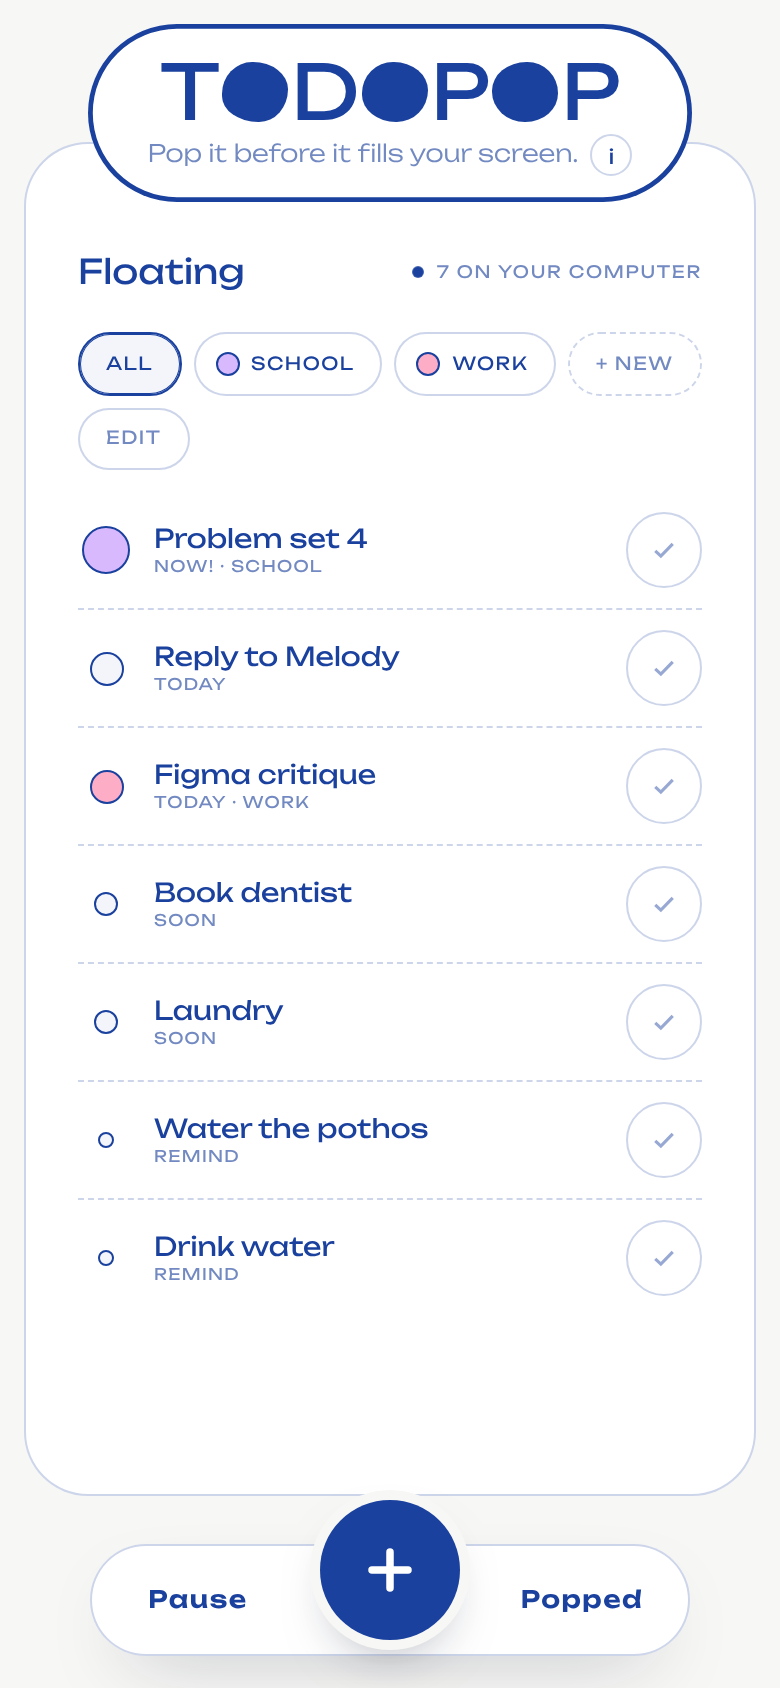
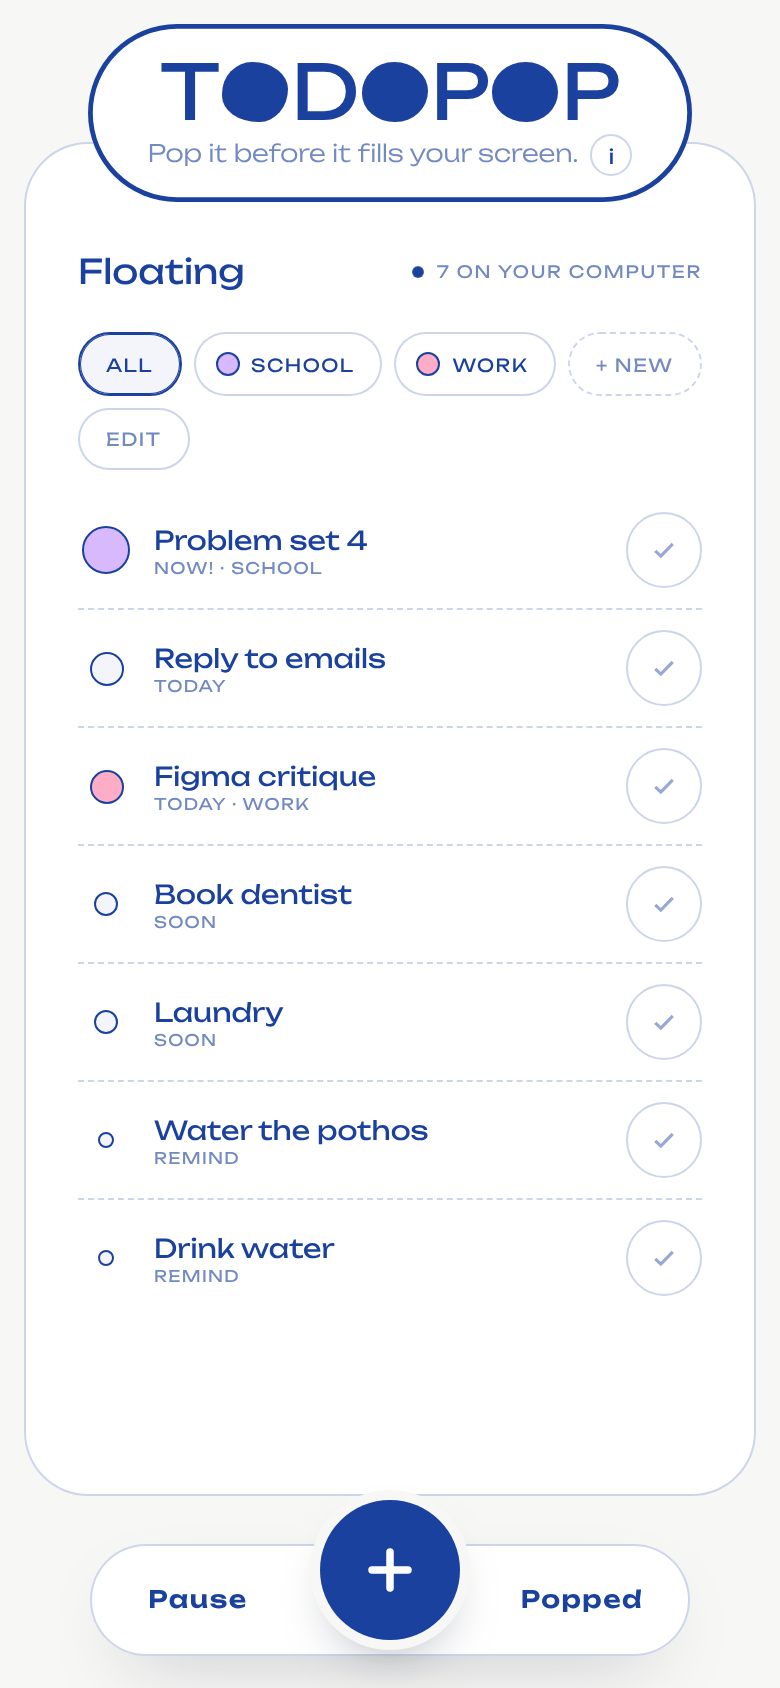
Room for doubled Chinese; no repeated name in focus; generic demo task
- Chinese lines get the height they need (lists, Popped, focus bar, toasts,
  chips, fields, and bubble labels), so the doubled characters aren't cut off.
- Focus mode no longer shows a second name card; the focus bar names the task.
- "Reply to Melody" is now "Reply to emails" everywhere, and the name field's
  example no longer names anyone.

Claude-Session: https://claude.ai/code/session_016KsdP1AQ7xCVeccahams69

diff --git a/desktop/app/index.html b/desktop/app/index.html
@@ -171,7 +171,7 @@ html.paused .task:not(.lv1) .dot i{border-style:dashed}
 .task.bursting{overflow:hidden; pointer-events:none}
 .task.inside .name span{text-decoration:underline; text-decoration-thickness:1.4px; text-underline-offset:4px}
 .task .name{all:unset; cursor:pointer; min-width:0; display:grid; gap:2px}
-.task .name span{font-weight:600; font-size:14px; overflow:hidden; text-overflow:ellipsis; white-space:nowrap}
+.task .name span{font-weight:600; font-size:14px; overflow:hidden; text-overflow:ellipsis; white-space:nowrap; line-height:normal}
 .task .name small{font-family:var(--f-mono); font-size:10.5px; color:var(--ink-soft); letter-spacing:.03em; font-variant-numeric:tabular-nums}
 .task .name:focus-visible{outline:2px solid var(--ink); outline-offset:2px; border-radius:6px}
 .pop-btn{
@@ -228,7 +228,7 @@ html.paused .task:not(.lv1) .dot i{border-style:dashed}
 .day-list .ttl{font-family:var(--f-mono); font-size:10.5px; color:var(--ink-soft); letter-spacing:.05em; text-transform:uppercase; padding:0 0 4px}
 .redo{all:unset; box-sizing:border-box; cursor:pointer; width:100%; display:flex; gap:8px; align-items:center; padding:6px 8px; margin:0 -8px; width:calc(100% + 16px); border-radius:10px}
 .redo::before{content:""; width:6px; height:6px; border-radius:50%; border:1.2px solid var(--ink); flex:none}
-.redo .nm{flex:1; min-width:0; overflow:hidden; text-overflow:ellipsis; white-space:nowrap}
+.redo .nm{flex:1; min-width:0; overflow:hidden; text-overflow:ellipsis; white-space:nowrap; line-height:normal}
 .redo .lv{font-family:var(--f-mono); font-size:10px; letter-spacing:.05em; color:var(--ink-soft)}
 .redo .again{font-family:var(--f-mono); font-size:10px; letter-spacing:.05em; color:var(--ink); opacity:0; transition:opacity .15s}
 .redo:hover, .redo:focus-visible{background:var(--ink-wash)}
@@ -288,7 +288,7 @@ html.paused .task:not(.lv1) .dot i{border-style:dashed}
   box-shadow:0 18px 50px -22px rgba(16,24,48,.4); animation:pop-in .4s cubic-bezier(.3,1.6,.5,1);
 }
 .focus-bar .focus-ring{color:var(--ink)}
-.focus-name{font-size:19px; font-style:italic; min-width:0; overflow:hidden; text-overflow:ellipsis; white-space:nowrap; max-width:36ch}
+.focus-name{font-size:19px; font-style:italic; min-width:0; overflow:hidden; text-overflow:ellipsis; white-space:nowrap; max-width:36ch; line-height:normal}
 .focus-time{font-size:19px; font-variant-numeric:tabular-nums; color:var(--ink-soft); letter-spacing:.02em}
 .focus-bar .close{position:static; flex:none; width:34px; height:34px; min-width:34px; aspect-ratio:1; padding:0; box-sizing:border-box; display:grid; place-items:center; border-radius:50%}
 .focus-bar > *{flex:none}
@@ -322,7 +322,7 @@ html.remote .focus-name{max-width:none; white-space:normal; overflow:hidden; dis
   max-width:calc(100% - 32px);
 }
 .toast.show{opacity:1; transform:translate(-50%, 0); pointer-events:auto}
-.toast span{overflow:hidden; text-overflow:ellipsis; white-space:nowrap}
+.toast span{overflow:hidden; text-overflow:ellipsis; white-space:nowrap; line-height:normal}
 .toast button{all:unset; cursor:pointer; border:1px solid color-mix(in srgb, var(--paper) 50%, transparent); border-radius:999px; padding:5px 12px; font-family:var(--f-mono); font-size:11px; letter-spacing:.06em; text-transform:uppercase}
 .toast button:focus-visible{outline:2px solid var(--paper)}
 
@@ -858,7 +858,10 @@ html.remote .panel > .pz > .sync{margin:0 16px 10px; padding:14px 16px; border:1
 .gedit .gx svg{width:9px; height:9px; stroke:currentColor; stroke-width:1.6; fill:none}
 .gedit .chips{padding-top:4px}
 .task .dot i{background:var(--glow, var(--ink-wash))}
-.task .name small{overflow:hidden; text-overflow:ellipsis; white-space:nowrap}
+.task .name small{overflow:hidden; text-overflow:ellipsis; white-space:nowrap; line-height:normal}
+/* Chinese is drawn at twice the size (see fonts.css): anything showing a name makes room for it */
+.chips button, .gedit input, .steps-edit li, .step-in{line-height:normal}
+input.has-cjk{line-height:2; padding-top:2px !important; padding-bottom:2px !important}
 .redo[style]::before{background:var(--glow)}
 .wday .pip[style]{background:var(--glow)}
 .wday .pip[style]{width:11px; height:11px; border-width:1px}
@@ -896,7 +899,7 @@ html.remote .panel > .pz > .sync{margin:0 16px 10px; padding:14px 16px; border:1
     <button class="acc-head" aria-expanded="false" aria-controls="body-new"><span>Blow a bubble</span><span class="chev"></span></button>
     <div class="acc-wrap"><div class="acc-body" id="body-new"><form class="acc-inner" id="new-form" autocomplete="off">
       <label class="field-label" for="task-name">Task name</label>
-      <input class="text-in" id="task-name" maxlength="48" placeholder="e.g. Send Melody the Figma link" style="margin-top:-10px">
+      <input class="text-in" id="task-name" maxlength="48" placeholder="e.g. Send the team the Figma link" style="margin-top:-10px">
       <label class="field-label url-label" for="task-url">Task URL <span class="opt">if there is one</span></label>
       <input class="text-in url-in" id="task-url" type="text" inputmode="url" autocomplete="off" spellcheck="false" maxlength="2000" placeholder="Paste a link, e.g. the Canvas page" style="margin-top:-10px">
       <label class="field-label url-label" for="task-due">Deadline <span class="opt">if there is one</span></label>
@@ -1186,7 +1189,7 @@ function seedTasks(){
   const ago = m => Date.now() - m*60000;
   [
     {name:'Problem set 4', level:4, R:118, fx:.8, fy:.6, created:ago(52)},
-    {name:'Reply to Melody', level:3, R:78, fx:.19, fy:.3, created:ago(34)},
+    {name:'Reply to emails', level:3, R:78, fx:.19, fy:.3, created:ago(34)},
     {name:'Figma critique', level:3, R:64, fx:.83, fy:.2, created:ago(20)},
     {name:'Book dentist', level:2, R:50, fx:.21, fy:.73, created:ago(140)},
     {name:'Laundry', level:2, R:44, fx:.3, fy:.9, created:ago(95)},
@@ -1332,6 +1335,9 @@ function renderTasks(){
       <button class="pop-btn" type="button" data-act="pop" aria-label="Pop ${esc(b.name)}"><svg viewBox="0 0 16 16"><path d="M3 8.5l3.2 3L13 4.5"/></svg></button>
     </li>`; }).join('') + (REMOTE && gFilter && !list.some(b => b.group === gFilter) ? `<li class="empty">Nothing in ${esc(gById(gFilter)?.name || 'this group')} yet.</li>` : '') : `<li class="empty">No bubbles left. The screen is all yours.</li>`;
 }
+// typing Chinese into a field: the line grows to fit the doubled characters
+const cjkFit = e => { const t = e.target; if(t && t.tagName === 'INPUT') t.classList.toggle('has-cjk', /[\u2e80-\u9fff\u3000-\u303f\uff00-\uffef]/.test(t.value)); };
+addEventListener('input', cjkFit, true); addEventListener('focusin', cjkFit, true); // (focusin: fields filled in for you, like Edit)
 const esc = s => s.replace(/[&<>"']/g, c => ({'&':'&amp;','<':'&lt;','>':'&gt;','"':'&quot;',"'":'&#39;'}[c]));
 
 /* ---------- groups: each one a soft glow of color (at most six groups) ----------
@@ -2421,9 +2427,12 @@ function draw(){
       const ft = showMeta ? focusSoFar(b) : 0, timeLine = ft >= 1 ? fmtClock(ft) : '';
       const grp = showMeta && b.group ? gById(b.group) : null; // its group, named: a coloured dot and the group's name
       const dueLine = showMeta && b.due ? fmtDue(b.due) : '';
-      const lh = fs*1.15, total = lines.length*lh + (showMeta ? ms*1.9 : 0) + (dueLine ? ms*1.5 : 0) + (grp ? ms*1.6 : 0) + (timeLine ? ms*1.5 : 0);
-      let y = ly - total/2 + lh/2;
-      for(const l of lines){ ctx.fillText(l, lx, y); y += lh; }
+      // Chinese is drawn at twice the size and rides high on the line: give those lines more room and nudge them down to centre
+      const lh = fs*1.15, lhOf = l => CJK.test(l) ? fs*1.9 : lh, grpTall = grp && CJK.test(grp.name) ? ms*.9 : 0;
+      const total = lines.reduce((a, l) => a + lhOf(l), 0) + (showMeta ? ms*1.9 : 0) + (dueLine ? ms*1.5 : 0) + (grp ? ms*1.6 + grpTall : 0) + (timeLine ? ms*1.5 : 0);
+      let y = ly - total/2;
+      for(const l of lines){ const h = lhOf(l); ctx.fillText(l, lx, y + h/2 + (CJK.test(l) ? fs*.34 : 0)); y += h; }
+      y += lh/2; // the meta below is placed as before: half a line under the last name line
       if(showMeta){
         ctx.font = `400 ${ms}px "Unbounded", "WDXL Lubrifont SC", "Varela Round", system-ui, sans-serif`; ctx.fillStyle = rgba(.62);
         if('letterSpacing' in ctx) ctx.letterSpacing = (ms*.1)+'px';
@@ -2442,8 +2451,9 @@ function draw(){
           const x0 = lx - (dr*2 + gap + tw)/2;
           ctx.beginPath(); ctx.arc(x0 + dr, ty, dr, 0, 6.283); ctx.fillStyle = gHex(grp); ctx.fill();
           ctx.lineWidth = .8; ctx.strokeStyle = rgba(.35); ctx.stroke();
-          ctx.fillStyle = rgba(.82); ctx.textAlign = 'left'; ctx.fillText(label, x0 + dr*2 + gap, ty); ctx.textAlign = 'center';
-          ty += ms*1.6;
+          if(grpTall) ty += grpTall/2;
+          ctx.fillStyle = rgba(.82); ctx.textAlign = 'left'; ctx.fillText(label, x0 + dr*2 + gap, ty + (grpTall ? ms*.3 : 0)); ctx.textAlign = 'center';
+          ty += ms*1.6 + grpTall/2;
         }
         if(timeLine){ // the clock inside, e.g. 3:56
           ctx.font = `400 ${ms*1.05}px "Unbounded", "WDXL Lubrifont SC", "Varela Round", system-ui, sans-serif`; ctx.fillStyle = rgba(.85);
@@ -2896,7 +2906,7 @@ function startFocus(b){
   syncStepSide();
   $('#step-add').hidden = REMOTE;
   if(!REMOTE){ panel.hidden = true; $('#launcher').hidden = true; } setInfo(false);
-  $('#focus-note-name').textContent = b.name; $('#focus-note').hidden = !!b.url || REMOTE;
+  $('#focus-note-name').textContent = b.name; $('#focus-note').hidden = true; // the focus bar already names the task
   $('#focus-name').textContent = b.name; $('#focus').hidden = false; $('#focus-frame').hidden = false; tickFocus();
   clearInterval(focusTimer); focusTimer = setInterval(tickFocus, 1000);
   document.documentElement.classList.remove('over-bubble');

diff --git a/docs/app/index.html b/docs/app/index.html
@@ -178,7 +178,7 @@ html.paused .task:not(.lv1) .dot i{border-style:dashed}
 .task.bursting{overflow:hidden; pointer-events:none}
 .task.inside .name span{text-decoration:underline; text-decoration-thickness:1.4px; text-underline-offset:4px}
 .task .name{all:unset; cursor:pointer; min-width:0; display:grid; gap:2px}
-.task .name span{font-weight:600; font-size:14px; overflow:hidden; text-overflow:ellipsis; white-space:nowrap}
+.task .name span{font-weight:600; font-size:14px; overflow:hidden; text-overflow:ellipsis; white-space:nowrap; line-height:normal}
 .task .name small{font-family:var(--f-mono); font-size:10.5px; color:var(--ink-soft); letter-spacing:.03em; font-variant-numeric:tabular-nums}
 .task .name:focus-visible{outline:2px solid var(--ink); outline-offset:2px; border-radius:6px}
 .pop-btn{
@@ -235,7 +235,7 @@ html.paused .task:not(.lv1) .dot i{border-style:dashed}
 .day-list .ttl{font-family:var(--f-mono); font-size:10.5px; color:var(--ink-soft); letter-spacing:.05em; text-transform:uppercase; padding:0 0 4px}
 .redo{all:unset; box-sizing:border-box; cursor:pointer; width:100%; display:flex; gap:8px; align-items:center; padding:6px 8px; margin:0 -8px; width:calc(100% + 16px); border-radius:10px}
 .redo::before{content:""; width:6px; height:6px; border-radius:50%; border:1.2px solid var(--ink); flex:none}
-.redo .nm{flex:1; min-width:0; overflow:hidden; text-overflow:ellipsis; white-space:nowrap}
+.redo .nm{flex:1; min-width:0; overflow:hidden; text-overflow:ellipsis; white-space:nowrap; line-height:normal}
 .redo .lv{font-family:var(--f-mono); font-size:10px; letter-spacing:.05em; color:var(--ink-soft)}
 .redo .again{font-family:var(--f-mono); font-size:10px; letter-spacing:.05em; color:var(--ink); opacity:0; transition:opacity .15s}
 .redo:hover, .redo:focus-visible{background:var(--ink-wash)}
@@ -295,7 +295,7 @@ html.paused .task:not(.lv1) .dot i{border-style:dashed}
   box-shadow:0 18px 50px -22px rgba(16,24,48,.4); animation:pop-in .4s cubic-bezier(.3,1.6,.5,1);
 }
 .focus-bar .focus-ring{color:var(--ink)}
-.focus-name{font-size:19px; font-style:italic; min-width:0; overflow:hidden; text-overflow:ellipsis; white-space:nowrap; max-width:36ch}
+.focus-name{font-size:19px; font-style:italic; min-width:0; overflow:hidden; text-overflow:ellipsis; white-space:nowrap; max-width:36ch; line-height:normal}
 .focus-time{font-size:19px; font-variant-numeric:tabular-nums; color:var(--ink-soft); letter-spacing:.02em}
 .focus-bar .close{position:static; flex:none; width:34px; height:34px; min-width:34px; aspect-ratio:1; padding:0; box-sizing:border-box; display:grid; place-items:center; border-radius:50%}
 .focus-bar > *{flex:none}
@@ -329,7 +329,7 @@ html.remote .focus-name{max-width:none; white-space:normal; overflow:hidden; dis
   max-width:calc(100% - 32px);
 }
 .toast.show{opacity:1; transform:translate(-50%, 0); pointer-events:auto}
-.toast span{overflow:hidden; text-overflow:ellipsis; white-space:nowrap}
+.toast span{overflow:hidden; text-overflow:ellipsis; white-space:nowrap; line-height:normal}
 .toast button{all:unset; cursor:pointer; border:1px solid color-mix(in srgb, var(--paper) 50%, transparent); border-radius:999px; padding:5px 12px; font-family:var(--f-mono); font-size:11px; letter-spacing:.06em; text-transform:uppercase}
 .toast button:focus-visible{outline:2px solid var(--paper)}
 
@@ -865,7 +865,10 @@ html.remote .panel > .pz > .sync{margin:0 16px 10px; padding:14px 16px; border:1
 .gedit .gx svg{width:9px; height:9px; stroke:currentColor; stroke-width:1.6; fill:none}
 .gedit .chips{padding-top:4px}
 .task .dot i{background:var(--glow, var(--ink-wash))}
-.task .name small{overflow:hidden; text-overflow:ellipsis; white-space:nowrap}
+.task .name small{overflow:hidden; text-overflow:ellipsis; white-space:nowrap; line-height:normal}
+/* Chinese is drawn at twice the size (see fonts.css): anything showing a name makes room for it */
+.chips button, .gedit input, .steps-edit li, .step-in{line-height:normal}
+input.has-cjk{line-height:2; padding-top:2px !important; padding-bottom:2px !important}
 .redo[style]::before{background:var(--glow)}
 .wday .pip[style]{background:var(--glow)}
 .wday .pip[style]{width:11px; height:11px; border-width:1px}
@@ -902,7 +905,7 @@ html.remote .panel > .pz > .sync{margin:0 16px 10px; padding:14px 16px; border:1
     <button class="acc-head" aria-expanded="false" aria-controls="body-new"><span>Blow a bubble</span><span class="chev"></span></button>
     <div class="acc-wrap"><div class="acc-body" id="body-new"><form class="acc-inner" id="new-form" autocomplete="off">
       <label class="field-label" for="task-name">Task name</label>
-      <input class="text-in" id="task-name" maxlength="48" placeholder="e.g. Send Melody the Figma link" style="margin-top:-10px">
+      <input class="text-in" id="task-name" maxlength="48" placeholder="e.g. Send the team the Figma link" style="margin-top:-10px">
       <label class="field-label url-label" for="task-url">Task URL <span class="opt">if there is one</span></label>
       <input class="text-in url-in" id="task-url" type="text" inputmode="url" autocomplete="off" spellcheck="false" maxlength="2000" placeholder="Paste a link, e.g. the Canvas page" style="margin-top:-10px">
       <label class="field-label url-label" for="task-due">Deadline <span class="opt">if there is one</span></label>
@@ -1192,7 +1195,7 @@ function seedTasks(){
   const ago = m => Date.now() - m*60000;
   [
     {name:'Problem set 4', level:4, R:118, fx:.8, fy:.6, created:ago(52)},
-    {name:'Reply to Melody', level:3, R:78, fx:.19, fy:.3, created:ago(34)},
+    {name:'Reply to emails', level:3, R:78, fx:.19, fy:.3, created:ago(34)},
     {name:'Figma critique', level:3, R:64, fx:.83, fy:.2, created:ago(20)},
     {name:'Book dentist', level:2, R:50, fx:.21, fy:.73, created:ago(140)},
     {name:'Laundry', level:2, R:44, fx:.3, fy:.9, created:ago(95)},
@@ -1338,6 +1341,9 @@ function renderTasks(){
       <button class="pop-btn" type="button" data-act="pop" aria-label="Pop ${esc(b.name)}"><svg viewBox="0 0 16 16"><path d="M3 8.5l3.2 3L13 4.5"/></svg></button>
     </li>`; }).join('') + (REMOTE && gFilter && !list.some(b => b.group === gFilter) ? `<li class="empty">Nothing in ${esc(gById(gFilter)?.name || 'this group')} yet.</li>` : '') : `<li class="empty">No bubbles left. The screen is all yours.</li>`;
 }
+// typing Chinese into a field: the line grows to fit the doubled characters
+const cjkFit = e => { const t = e.target; if(t && t.tagName === 'INPUT') t.classList.toggle('has-cjk', /[\u2e80-\u9fff\u3000-\u303f\uff00-\uffef]/.test(t.value)); };
+addEventListener('input', cjkFit, true); addEventListener('focusin', cjkFit, true); // (focusin: fields filled in for you, like Edit)
 const esc = s => s.replace(/[&<>"']/g, c => ({'&':'&amp;','<':'&lt;','>':'&gt;','"':'&quot;',"'":'&#39;'}[c]));
 
 /* ---------- groups: each one a soft glow of color (at most six groups) ----------
@@ -2427,9 +2433,12 @@ function draw(){
       const ft = showMeta ? focusSoFar(b) : 0, timeLine = ft >= 1 ? fmtClock(ft) : '';
       const grp = showMeta && b.group ? gById(b.group) : null; // its group, named: a coloured dot and the group's name
       const dueLine = showMeta && b.due ? fmtDue(b.due) : '';
-      const lh = fs*1.15, total = lines.length*lh + (showMeta ? ms*1.9 : 0) + (dueLine ? ms*1.5 : 0) + (grp ? ms*1.6 : 0) + (timeLine ? ms*1.5 : 0);
-      let y = ly - total/2 + lh/2;
-      for(const l of lines){ ctx.fillText(l, lx, y); y += lh; }
+      // Chinese is drawn at twice the size and rides high on the line: give those lines more room and nudge them down to centre
+      const lh = fs*1.15, lhOf = l => CJK.test(l) ? fs*1.9 : lh, grpTall = grp && CJK.test(grp.name) ? ms*.9 : 0;
+      const total = lines.reduce((a, l) => a + lhOf(l), 0) + (showMeta ? ms*1.9 : 0) + (dueLine ? ms*1.5 : 0) + (grp ? ms*1.6 + grpTall : 0) + (timeLine ? ms*1.5 : 0);
+      let y = ly - total/2;
+      for(const l of lines){ const h = lhOf(l); ctx.fillText(l, lx, y + h/2 + (CJK.test(l) ? fs*.34 : 0)); y += h; }
+      y += lh/2; // the meta below is placed as before: half a line under the last name line
       if(showMeta){
         ctx.font = `400 ${ms}px "Unbounded", "WDXL Lubrifont SC", "Varela Round", system-ui, sans-serif`; ctx.fillStyle = rgba(.62);
         if('letterSpacing' in ctx) ctx.letterSpacing = (ms*.1)+'px';
@@ -2448,8 +2457,9 @@ function draw(){
           const x0 = lx - (dr*2 + gap + tw)/2;
           ctx.beginPath(); ctx.arc(x0 + dr, ty, dr, 0, 6.283); ctx.fillStyle = gHex(grp); ctx.fill();
           ctx.lineWidth = .8; ctx.strokeStyle = rgba(.35); ctx.stroke();
-          ctx.fillStyle = rgba(.82); ctx.textAlign = 'left'; ctx.fillText(label, x0 + dr*2 + gap, ty); ctx.textAlign = 'center';
-          ty += ms*1.6;
+          if(grpTall) ty += grpTall/2;
+          ctx.fillStyle = rgba(.82); ctx.textAlign = 'left'; ctx.fillText(label, x0 + dr*2 + gap, ty + (grpTall ? ms*.3 : 0)); ctx.textAlign = 'center';
+          ty += ms*1.6 + grpTall/2;
         }
         if(timeLine){ // the clock inside, e.g. 3:56
           ctx.font = `400 ${ms*1.05}px "Unbounded", "WDXL Lubrifont SC", "Varela Round", system-ui, sans-serif`; ctx.fillStyle = rgba(.85);
@@ -2902,7 +2912,7 @@ function startFocus(b){
   syncStepSide();
   $('#step-add').hidden = REMOTE;
   if(!REMOTE){ panel.hidden = true; $('#launcher').hidden = true; } setInfo(false);
-  $('#focus-note-name').textContent = b.name; $('#focus-note').hidden = !!b.url || REMOTE;
+  $('#focus-note-name').textContent = b.name; $('#focus-note').hidden = true; // the focus bar already names the task
   $('#focus-name').textContent = b.name; $('#focus').hidden = false; $('#focus-frame').hidden = false; tickFocus();
   clearInterval(focusTimer); focusTimer = setInterval(tickFocus, 1000);
   document.documentElement.classList.remove('over-bubble');

diff --git a/docs/index.html b/docs/index.html
@@ -374,7 +374,7 @@ footer a{text-decoration:none} footer a:hover{text-decoration:underline; text-un
   const FONT = '"Unbounded", "Varela Round", system-ui, sans-serif';
   const GROUP = {School:'#C697FE', Work:'#FC85AD', Home:'#F89547', Health:'#1ACF9F'}; // the app's group colors with the navy tint
   const SHORT = {1:'REMIND', 2:'SOON', 3:'TODAY', 4:'NOW!'};
-  const TASKS = [['Problem set 4', 4, 'School'], ['Reply to Melody', 3, null], ['Laundry', 2, 'Home'], ['Figma critique', 3, 'Work'], ['Water the pothos', 1, 'Home'],
+  const TASKS = [['Problem set 4', 4, 'School'], ['Reply to emails', 3, null], ['Laundry', 2, 'Home'], ['Figma critique', 3, 'Work'], ['Water the pothos', 1, 'Home'],
     ['Book dentist', 2, null], ['Portfolio review', 4, 'Work'], ['Call mom', 2, null], ['Read ch. 7', 3, 'School'], ['Drink water', 1, 'Health'], ['Pay rent', 3, 'Home'],
     ['Gym', 2, 'Health'], ['Email the landlord', 2, 'Home'], ['Groceries', 2, null], ['Return library books', 1, 'School'], ['Taxes', 3, null]];
   const W = () => innerWidth, H = () => innerHeight;
